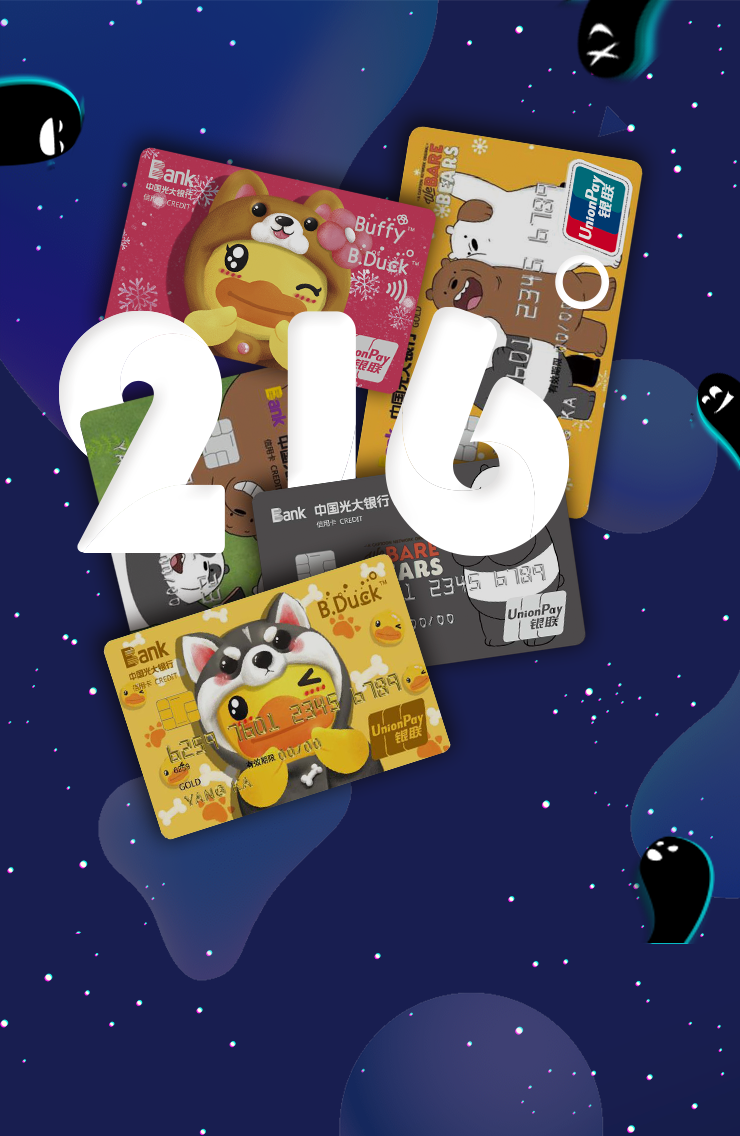
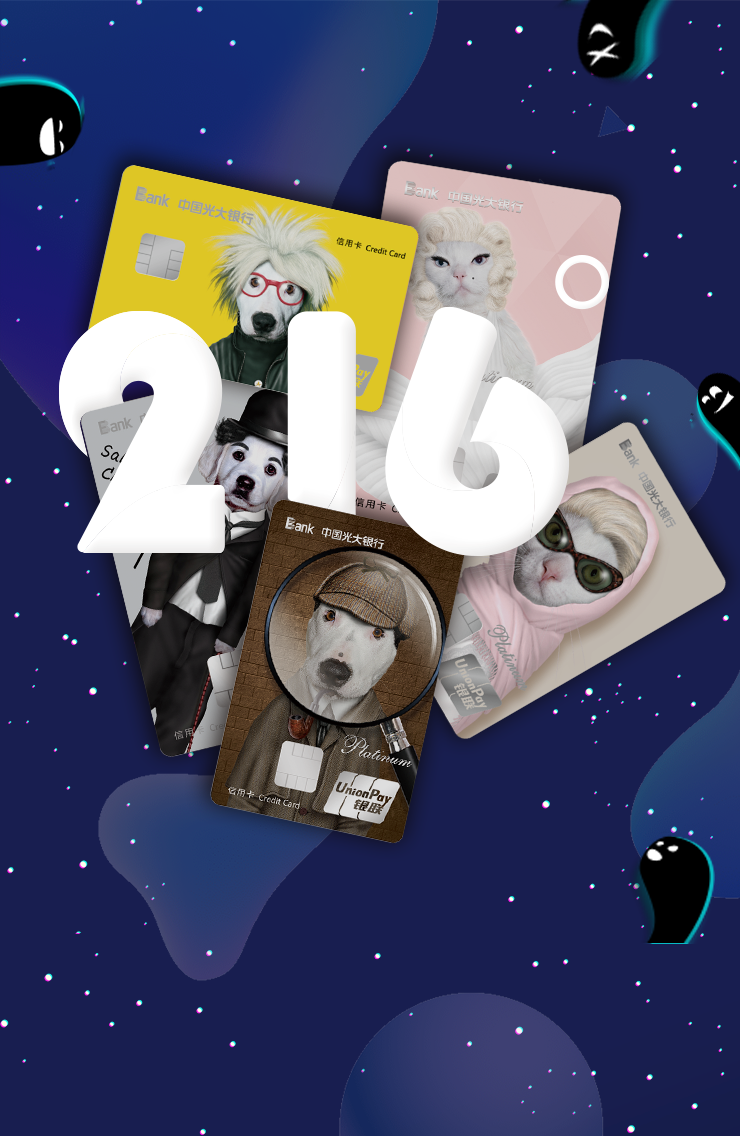
add new 2 series

diff --git a/js/MainMenu.js b/js/MainMenu.js
@@ -82,6 +82,12 @@ var list = [
 	//		content: '<img src="img/Product4.png" style="width:100%;height:100%;"/><a data-card-id="fire03" class="card-apply" style="width: 40%;position:  absolute;z-index:  99999;top: 5%;right: 6%;display:  block;padding: 0;margin: 0;"><img src="img/Apply_btn.png" style="width: 100%;"></a>'
 	//	},
 	{
+		content: '<div class="slogan">你有你的选择 I have my ATTITUDE</div><img src="img/toutiao.png" style="width:100%;height:100%;"/><a data-card-id="up05" data-index="0" class="show-up-btn1" style="width: 26%;height:50px;position: absolute;z-index: 1;bottom: 20%;right: 25%;"><img src="img/btn_showup.png" style="width: 100%;"></a>'
+	},
+	{
+		content: '<div class="slogan">对你不仅仅是喜欢 My love in it</div><img src="img/tencent.png" style="width:100%;height:100%;"/><a data-card-id="up04" data-index="0" class="show-up-btn1" style="width: 26%;height:50px;position: absolute;z-index: 1;bottom: 20%;right: 25%;"><img src="img/btn_showup.png" style="width: 100%;"></a>'
+	},
+	{
 		content: '<div class="slogan">承 |萌| |光| 爱，带我回家</div><img src="img/meng.png" style="width:100%;height:100%;"/><a data-card-id="up03" data-index="2" class="show-up-btn" style="width: 26%;height:50px;position: absolute;z-index: 1;bottom: 20%;right: 25%;"><img src="img/btn_showup.png" style="width: 100%;"></a>'
 	},
 	{
@@ -140,7 +146,7 @@ var S = new iSlider({
 	isOverspread: 1,
 	animateTime: 800,
 	//animateType:'depth',
-	initIndex: 3,
+	initIndex: 5,
 	//	isDebug: true,
 	isVertical: true
 });
@@ -156,44 +162,70 @@ S.on('slideStart', function() {
 S.on('slideChanged', function(index, dom) {
 
 	$('.operation-guide').show();
-	if(index == 3) {
+	if(index == 5) {
 		$('.new-btn').find('img').attr('src', 'img/120.png');
 		$('.product-btn').find('img').attr('src', 'img/666.png');
 		$('.me-btn').find('img').attr('src', 'img/216.png');
-		$('.new-btn').removeClass('zoomInOut');
-		$('.product-btn').removeClass('zoomInOut');
-		$('.me-btn').removeClass('zoomInOut');
+		$('.new-btn').find('img').removeClass('zoomInOut');
+		$('.product-btn').find('img').removeClass('zoomInOut');
+		$('.me-btn').find('img').removeClass('zoomInOut');
+		$('.me-btn').show();
 
-	} else if(index == 2) {
+	} else if(index == 4) {
 		$('.new-btn').find('img').attr('src', 'img/120.png');
 		$('.product-btn').find('img').attr('src', 'img/666_select.png');
 		$('.me-btn').find('img').attr('src', 'img/216.png');
-		$('.new-btn').removeClass('zoomInOut');
-		$('.product-btn').removeClass('zoomInOut');
-		$('.me-btn').removeClass('zoomInOut');
+		$('.new-btn').find('img').removeClass('zoomInOut');
+		$('.product-btn').find('img').removeClass('zoomInOut');
+		$('.me-btn').find('img').removeClass('zoomInOut');
 		setTimeout(function() {
-			$('.product-btn').addClass('zoomInOut');
+			$('.product-btn').find('img').addClass('zoomInOut');
 		}, 50)
-	} else if(index == 1) {
+		$('.me-btn').show();
+	} else if(index == 3) {
 		$('.new-btn').find('img').attr('src', 'img/120_select.png');
 		$('.product-btn').find('img').attr('src', 'img/666.png');
 		$('.me-btn').find('img').attr('src', 'img/216.png');
-		$('.new-btn').removeClass('zoomInOut');
-		$('.product-btn').removeClass('zoomInOut');
-		$('.me-btn').removeClass('zoomInOut');
+		$('.new-btn').find('img').removeClass('zoomInOut');
+		$('.product-btn').find('img').removeClass('zoomInOut');
+		$('.me-btn').find('img').removeClass('zoomInOut');
 		setTimeout(function() {
-			$('.new-btn').addClass('zoomInOut');
+			$('.new-btn').find('img').addClass('zoomInOut');
 		}, 50)
-	} else if(index == 0) {
+		$('.me-btn').show();
+	} else if(index == 2) {
 		$('.new-btn').find('img').attr('src', 'img/120.png');
 		$('.product-btn').find('img').attr('src', 'img/666.png');
 		$('.me-btn').find('img').attr('src', 'img/216_select.png');
-		$('.new-btn').removeClass('zoomInOut');
-		$('.product-btn').removeClass('zoomInOut');
-		$('.me-btn').removeClass('zoomInOut');
+		$('.new-btn').find('img').removeClass('zoomInOut');
+		$('.product-btn').find('img').removeClass('zoomInOut');
+		$('.me-btn').find('img').removeClass('zoomInOut');
 		setTimeout(function() {
-			$('.me-btn').addClass('zoomInOut');
+			$('.me-btn').find('img').addClass('zoomInOut');
 		}, 50)
+		$('.me-btn').show();
+	} else if(index == 1) {
+		$('.new-btn').find('img').attr('src', 'img/520_select.png');
+		$('.product-btn').find('img').attr('src', 'img/youtaidu.png');
+		$('.me-btn').find('img').attr('src', '');
+		$('.new-btn').find('img').removeClass('zoomInOut');
+		$('.product-btn').find('img').removeClass('zoomInOut');
+		$('.new-btn').find('img').removeClass('zoomInOut');
+		setTimeout(function() {
+			$('.new-btn').find('img').addClass('zoomInOut');
+		}, 50)
+		$('.me-btn').hide();
+	} else if(index == 0) {
+		$('.new-btn').find('img').attr('src', 'img/520.png');
+		$('.product-btn').find('img').attr('src', 'img/youtaidu_select.png');
+		$('.me-btn').find('img').attr('src', '');
+		$('.new-btn').find('img').removeClass('zoomInOut');
+		$('.product-btn').find('img').removeClass('zoomInOut');
+		$('.product-btn').find('img').removeClass('zoomInOut');
+		setTimeout(function() {
+			$('.product-btn').find('img').addClass('zoomInOut');
+		}, 50)
+		$('.me-btn').hide();
 		$('.operation-guide').hide();
 	} else {
 		console.log(index);

diff --git a/js/ProductDetail.js b/js/ProductDetail.js
@@ -123,33 +123,33 @@ if(initIndex > 3) {
 	$('.product-btn').find('img').attr('src', 'img/666_select.png');
 	$('.me-btn').find('img').attr('src', 'img/216.png');
 
-	$('.new-btn').removeClass('zoomInOut');
-	$('.product-btn').removeClass('zoomInOut');
-	$('.me-btn').removeClass('zoomInOut');
+	$('.new-btn').find('img').removeClass('zoomInOut');
+	$('.product-btn').find('img').removeClass('zoomInOut');
+	$('.me-btn').find('img').removeClass('zoomInOut');
 	setTimeout(function() {
-		$('.product-btn').addClass('zoomInOut');
+		$('.product-btn').find('img').addClass('zoomInOut');
 	}, 50)
 } else if(initIndex > 2) {
 	$('.new-btn').find('img').attr('src', 'img/120_select.png');
 	$('.product-btn').find('img').attr('src', 'img/666.png');
 	$('.me-btn').find('img').attr('src', 'img/216.png');
 
-	$('.new-btn').removeClass('zoomInOut');
-	$('.product-btn').removeClass('zoomInOut');
-	$('.me-btn').removeClass('zoomInOut');
+	$('.new-btn').find('img').removeClass('zoomInOut');
+	$('.product-btn').find('img').removeClass('zoomInOut');
+	$('.me-btn').find('img').removeClass('zoomInOut');
 	setTimeout(function() {
-		$('.new-btn').addClass('zoomInOut');
+		$('.new-btn').find('img').addClass('zoomInOut');
 	}, 50)
 } else if(initIndex <= 2) {
 	$('.new-btn').find('img').attr('src', 'img/120.png');
 	$('.product-btn').find('img').attr('src', 'img/666.png');
 	$('.me-btn').find('img').attr('src', 'img/216_select.png');
 
-	$('.new-btn').removeClass('zoomInOut');
-	$('.product-btn').removeClass('zoomInOut');
-	$('.me-btn').removeClass('zoomInOut');
+	$('.new-btn').find('img').removeClass('zoomInOut');
+	$('.product-btn').find('img').removeClass('zoomInOut');
+	$('.me-btn').find('img').removeClass('zoomInOut');
 	setTimeout(function() {
-		$('.me-btn').addClass('zoomInOut');
+		$('.me-btn').find('img').addClass('zoomInOut');
 	}, 50)
 } else {
 	console.log(initIndex);
@@ -272,31 +272,31 @@ S.on('slideChanged', function(index, dom) {
 		$('.product-btn').find('img').attr('src', 'img/666_select.png');
 		$('.me-btn').find('img').attr('src', 'img/216.png');
 
-		$('.new-btn').removeClass('zoomInOut');
-		$('.product-btn').removeClass('zoomInOut');
-		$('.me-btn').removeClass('zoomInOut');
+		$('.new-btn').find('img').removeClass('zoomInOut');
+		$('.product-btn').find('img').removeClass('zoomInOut');
+		$('.me-btn').find('img').removeClass('zoomInOut');
 		setTimeout(function() {
-			$('.product-btn').addClass('zoomInOut');
+			$('.product-btn').find('img').addClass('zoomInOut');
 		}, 50)
 	} else if(index > 2) {
 		$('.new-btn').find('img').attr('src', 'img/120_select.png');
 		$('.product-btn').find('img').attr('src', 'img/666.png');
 		$('.me-btn').find('img').attr('src', 'img/216.png');
-		$('.new-btn').removeClass('zoomInOut');
-		$('.product-btn').removeClass('zoomInOut');
-		$('.me-btn').removeClass('zoomInOut');
+		$('.new-btn').find('img').removeClass('zoomInOut');
+		$('.product-btn').find('img').removeClass('zoomInOut');
+		$('.me-btn').find('img').removeClass('zoomInOut');
 		setTimeout(function() {
-			$('.new-btn').addClass('zoomInOut');
+			$('.new-btn').find('img').addClass('zoomInOut');
 		}, 50)
 	} else if(index <= 2) {
 		$('.new-btn').find('img').attr('src', 'img/120.png');
 		$('.product-btn').find('img').attr('src', 'img/666.png');
 		$('.me-btn').find('img').attr('src', 'img/216_select.png');
-		$('.new-btn').removeClass('zoomInOut');
-		$('.product-btn').removeClass('zoomInOut');
-		$('.me-btn').removeClass('zoomInOut');
+		$('.new-btn').find('img').removeClass('zoomInOut');
+		$('.product-btn').find('img').removeClass('zoomInOut');
+		$('.me-btn').find('img').removeClass('zoomInOut');
 		setTimeout(function() {
-			$('.me-btn').addClass('zoomInOut');
+			$('.me-btn').find('img').addClass('zoomInOut');
 		}, 50)
 	} else {
 		console.log(index);
